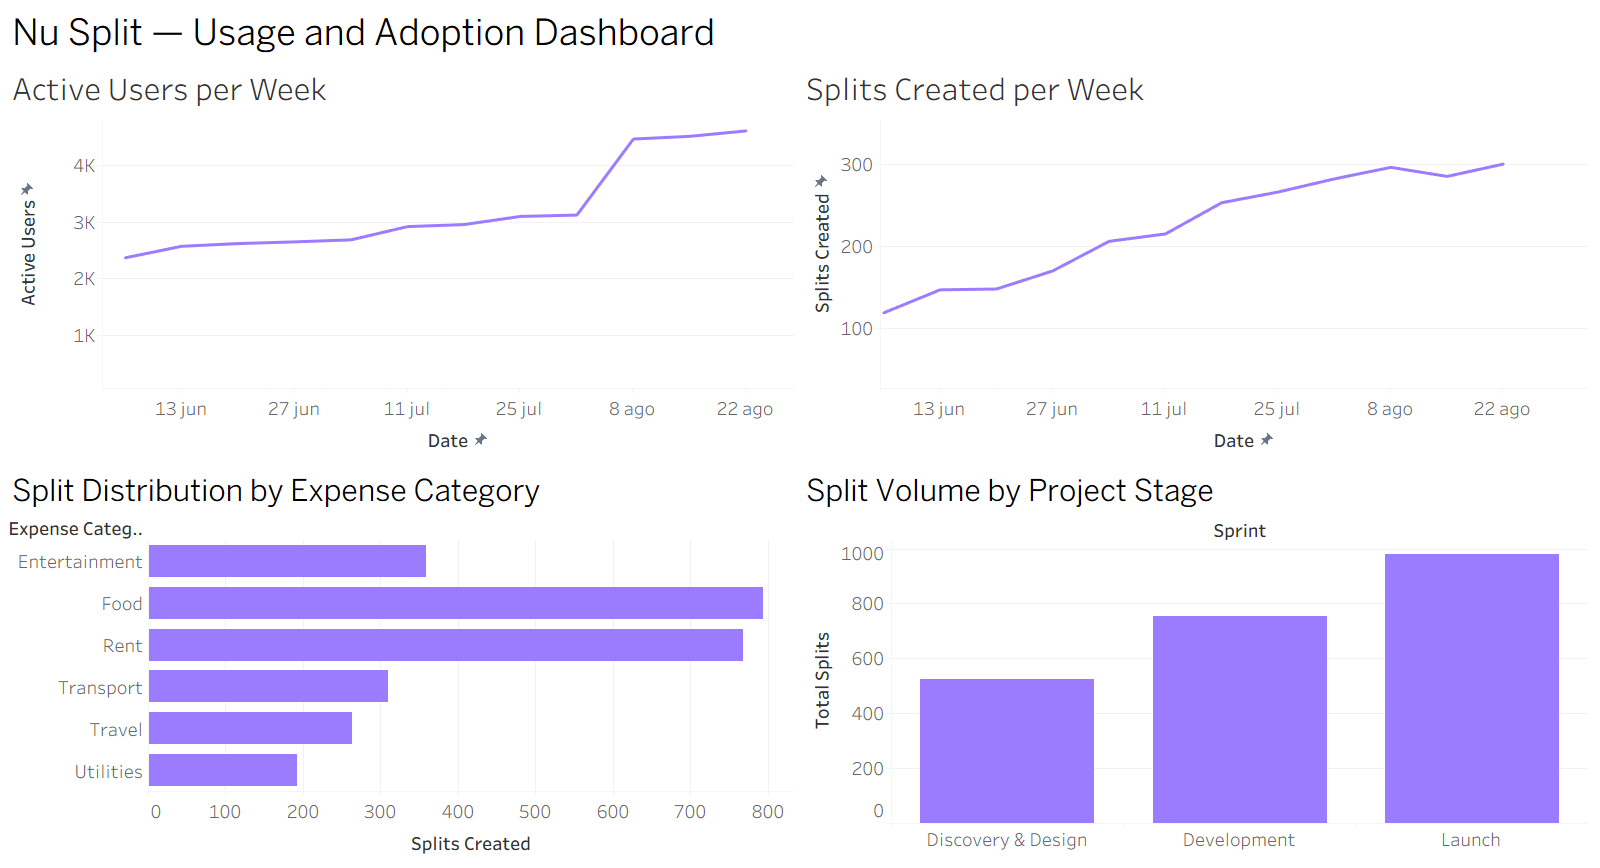
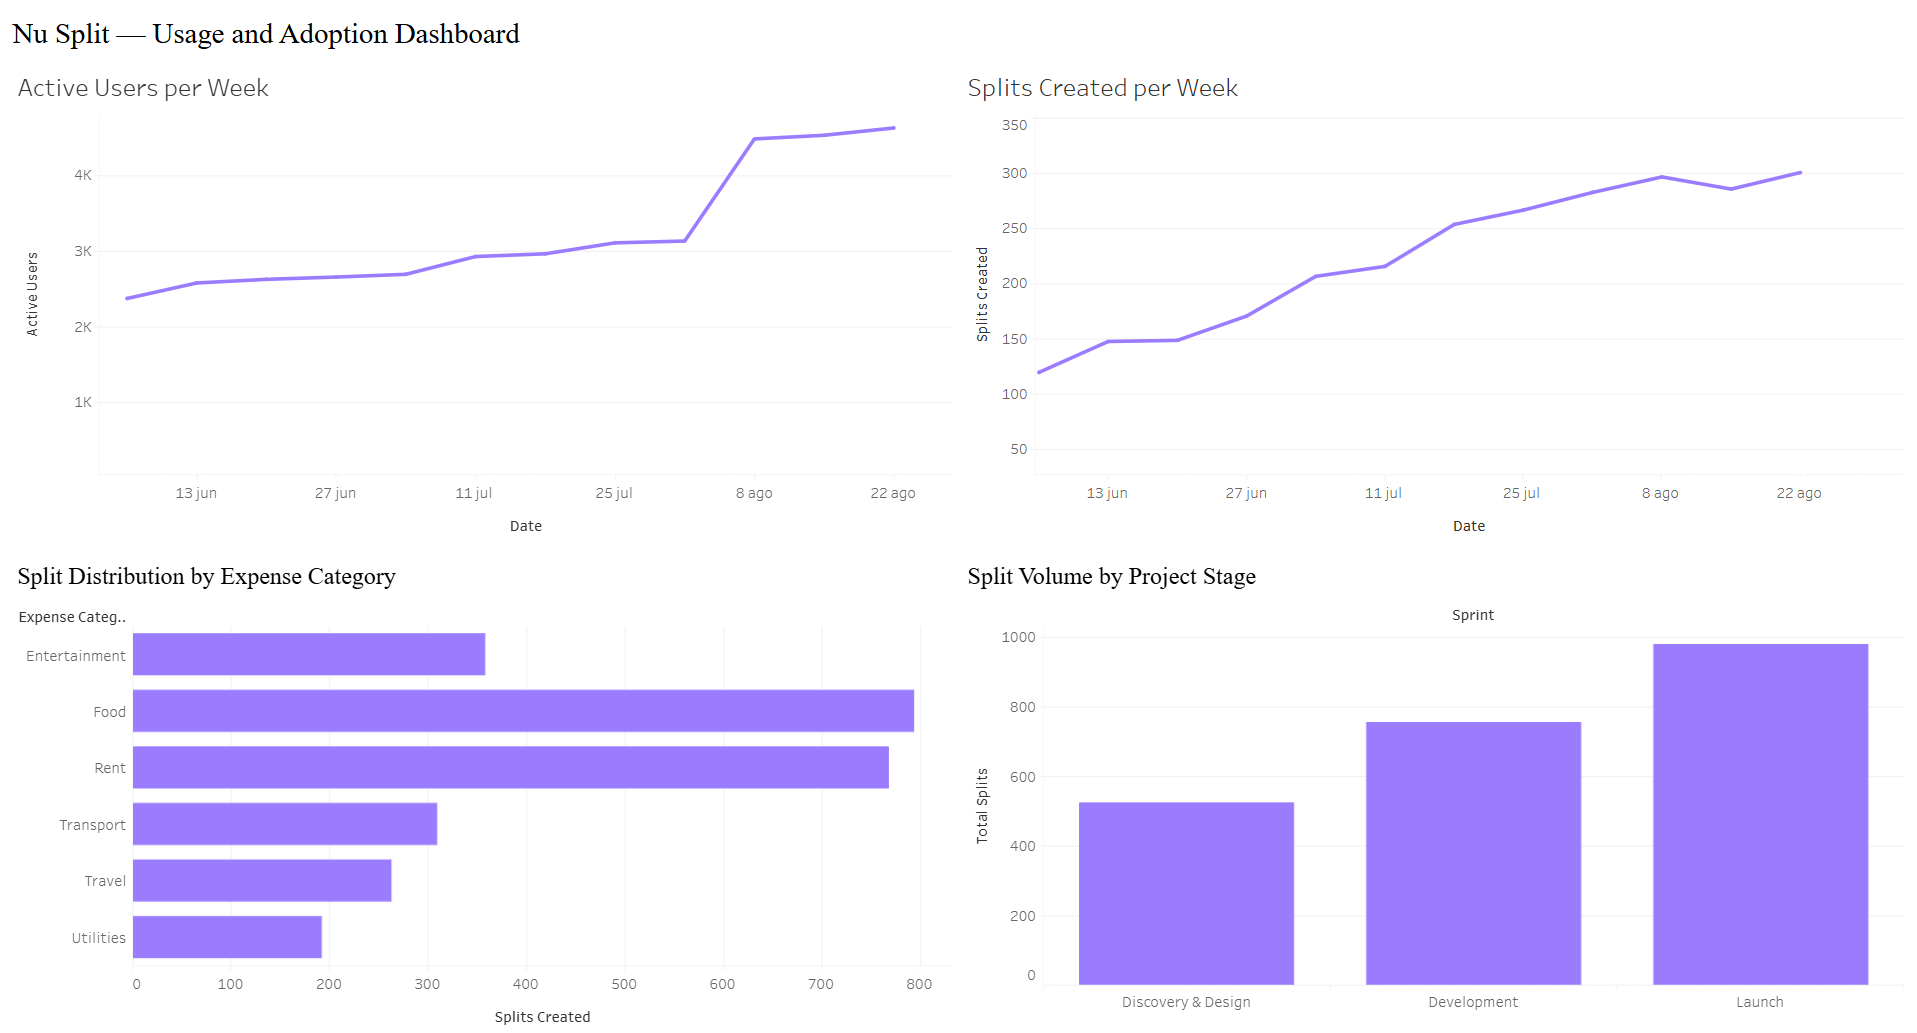
Actualizar dashboard de Tableau y link del boton View Dashboard

diff --git a/src/routes/index.tsx b/src/routes/index.tsx
@@ -114,7 +114,7 @@ function Index() {
               title="Nu Split — Shared Payments Feature"
               tech={["Notion", "Jira", "Tableau", "Scrum"]}
               actions={
-                <TableauLink href="https://public.tableau.com/app/profile/maria.jimenez7845/viz/NuSplit-DashboardBI/Dashboard1" />
+                <TableauLink href="https://public.tableau.com/app/profile/maria.jimenez7845/viz/NuSplit-DashboardBI/Dashboard1?publish=yes" />
               }
             >
               <CardBlock label="Problem">
